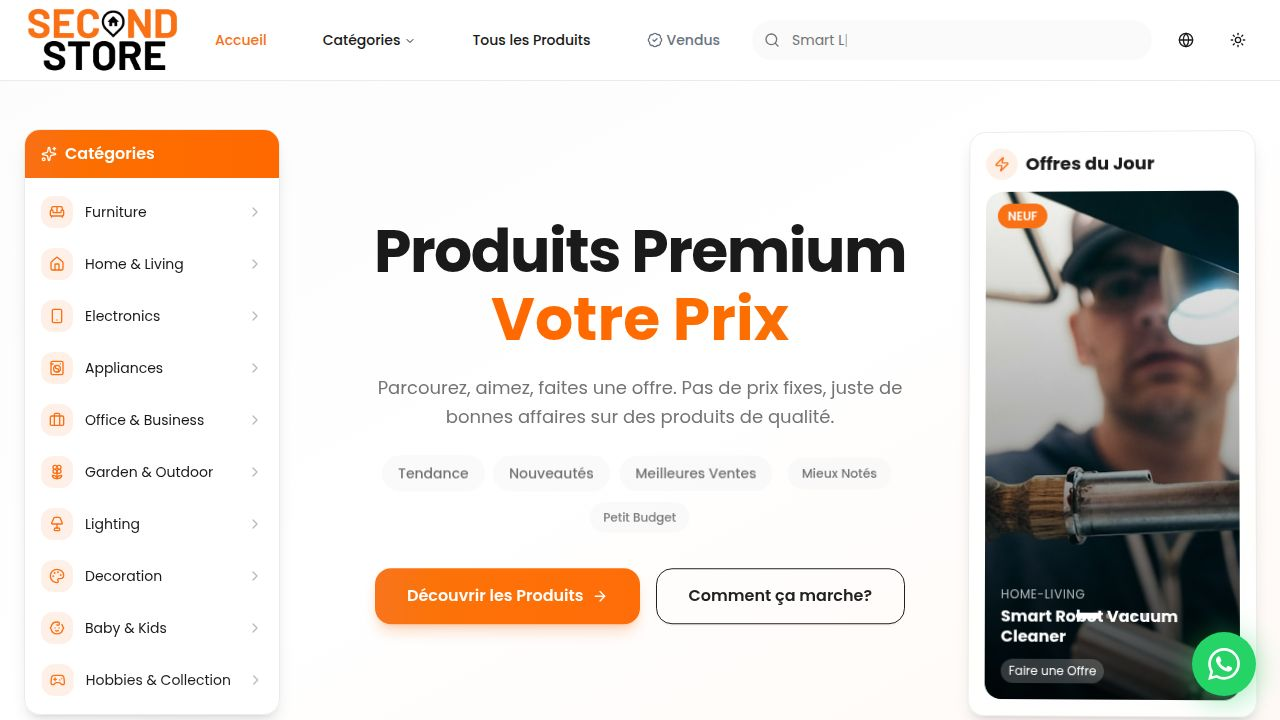
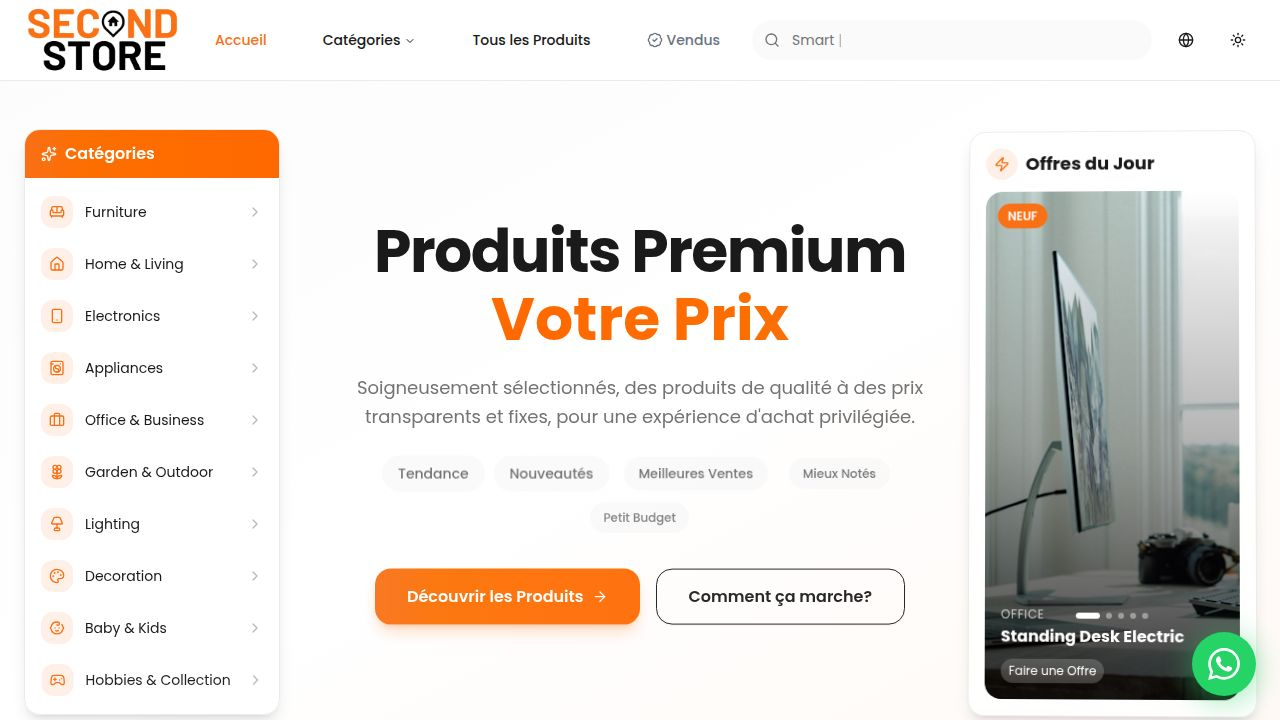
Update home page description and remove developer section from footer
Replaces the existing description under "Votre Prix" on the home page with new French text and removes the "TOOV" developer section from the footer component.

Replit-Commit-Author: Agent
Replit-Commit-Session-Id: 7fa4db42-9280-4e3e-83e0-f0338e822c95
Replit-Commit-Checkpoint-Type: full_checkpoint
Replit-Commit-Event-Id: ab3257ea-cd81-4c71-ba95-90e2c9401313
Replit-Commit-Screenshot-Url: https://storage.googleapis.com/screenshot-production-us-central1/4ddbcb88-ef6c-408d-9746-e22c289cd479/7fa4db42-9280-4e3e-83e0-f0338e822c95/qwolE26
Replit-Helium-Checkpoint-Created: true

diff --git a/client/src/pages/home.tsx b/client/src/pages/home.tsx
@@ -268,7 +268,7 @@ export function Home() {
                   transition={{ duration: 0.5, delay: 0.4 }}
                   className="text-lg text-muted-foreground max-w-xl mx-auto mb-6 leading-relaxed"
                 >
-                  Parcourez, aimez, faites une offre. Pas de prix fixes, juste de bonnes affaires sur des produits de qualité.
+                  Soigneusement sélectionnés, des produits de qualité à des prix transparents et fixes, pour une expérience d'achat privilégiée.
                 </motion.p>
 
                 {/* Quick Discovery Tags */}
